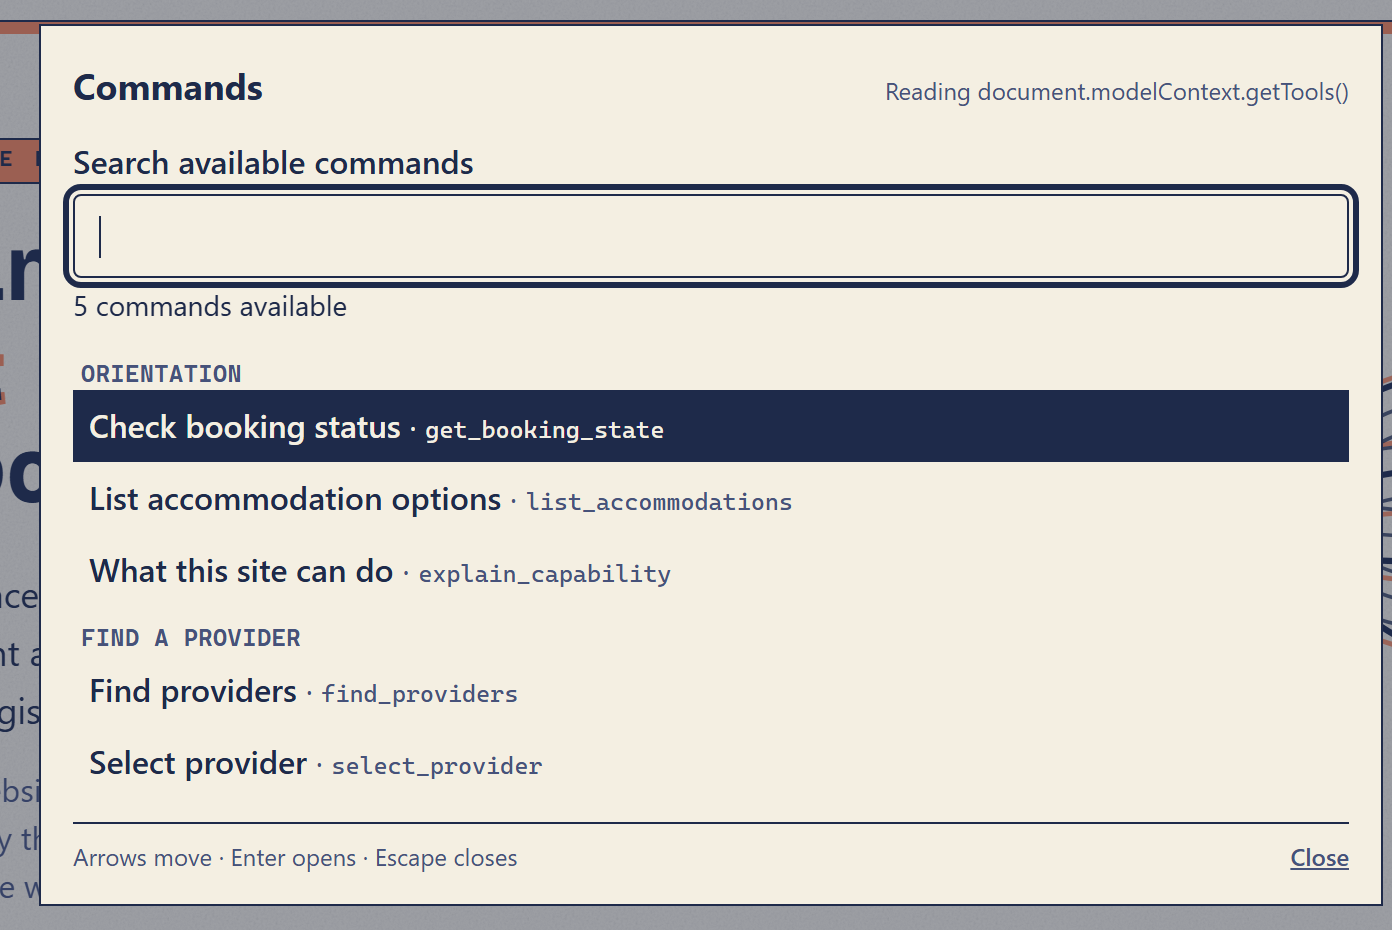
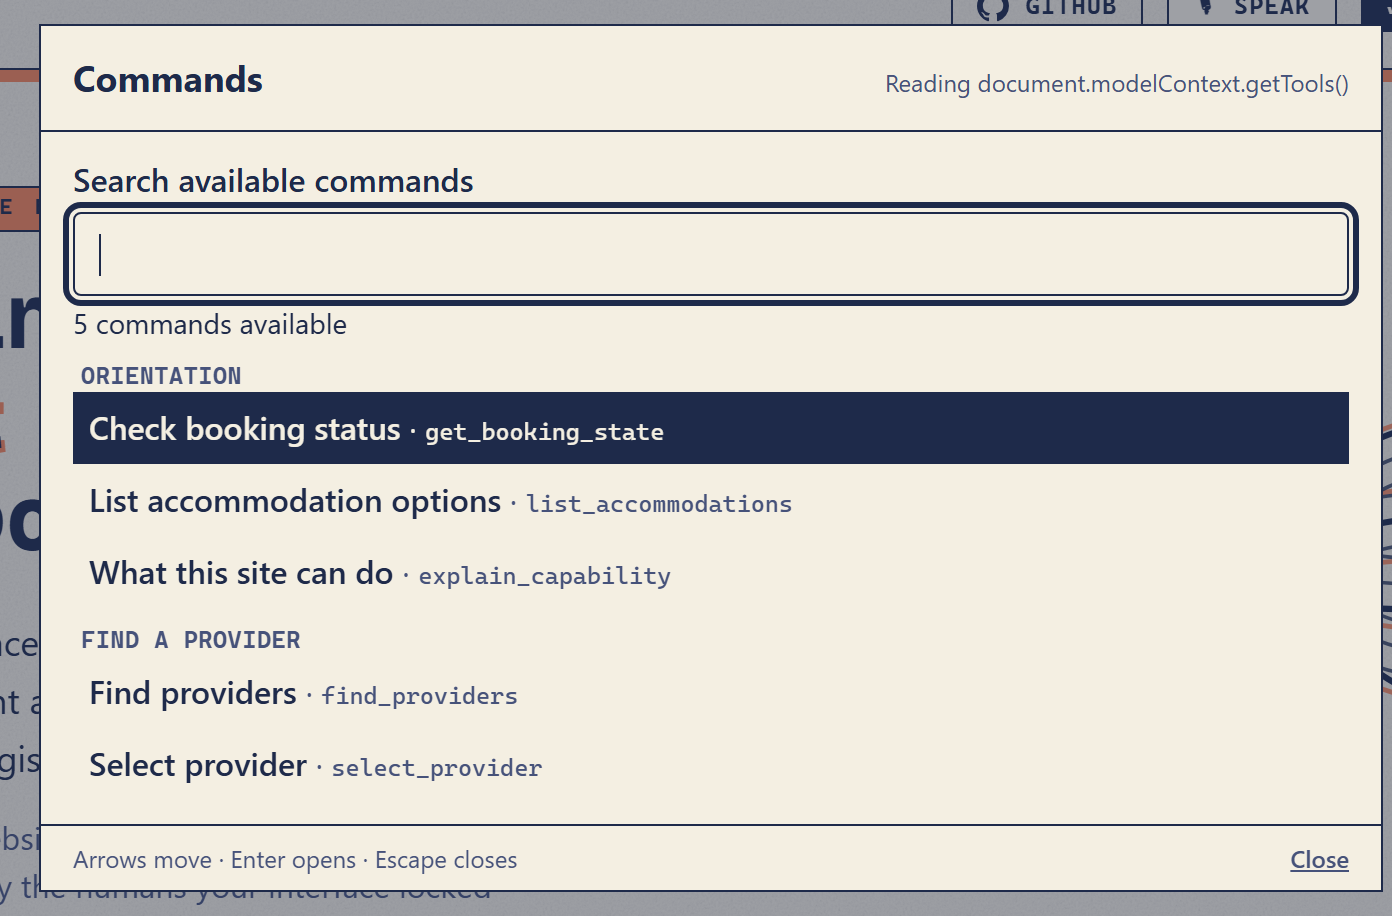
fix: the palette dialog was taller than the viewport and could not scroll
The screenshot showed it: the Run button was cut in half at the bottom of the
window and nothing would scroll to it.

The card sat inside a `fixed inset-0` overlay with no height cap and no
overflow, so a long form simply extended past the bottom of the screen. A fixed
overlay does not scroll with the page, so Run and the result area were
unreachable. find_providers is the worst case - specialty, ten accommodation
checkboxes, insurance, language and radius - which is exactly the tool the video
script opens first.

The control was never broken. It was off-screen, and the result rendered
further off-screen below it, which is why running it appeared to do nothing.

The card is now a flex column capped at calc(100dvh - 3rem):

  - header (title, source line) pinned
  - the middle scrolls: the listbox in list view, the fields in form view
  - actions and result pinned to the bottom, always reachable
  - the result block is itself capped and scrolls, so a long refusal cannot
    push the buttons away again

Verified at the reporter's viewport: the card ends 8px above the fold, Run is
fully visible, the field area scrolls, and after clicking Run the result
"3 physiotherapy providers." renders visibly directly beneath it.

336 unit tests, 22 real-Chrome checks.

diff --git a/src/components/CommandPalette.tsx b/src/components/CommandPalette.tsx
@@ -352,10 +352,17 @@ export function CommandPalette() {
       /* Escape is handled once, at the window — see the effect above. Handling
          it here too would stop the event before it got there whenever focus
          happened to be inside the dialog. */
-      className="fixed inset-0 z-50 flex items-start justify-center bg-ink/40 p-4 pt-16"
+      className="fixed inset-0 z-50 flex items-start justify-center overflow-hidden bg-ink/40 p-4 sm:pt-10"
     >
-      <div className="w-full max-w-2xl border-[1.5px] border-ink bg-stock p-4 ">
-        <div className="flex items-baseline justify-between gap-4">
+      {/*
+        The card is a column that never outgrows the viewport: header and
+        actions stay put, and only the middle scrolls. Without the height cap
+        a long form — find_providers has ten checkboxes — pushed Run and the
+        result below the fold of a `fixed` overlay, where nothing could scroll
+        to them. The control was not broken; it was off-screen.
+      */}
+      <div className="flex max-h-[calc(100dvh-3rem)] w-full max-w-2xl flex-col border-[1.5px] border-ink bg-stock">
+        <div className="flex shrink-0 items-baseline justify-between gap-4 border-b border-ink px-4 py-3">
           <h2 id="palette-title" className="text-lg font-bold text-ink">
             Commands
           </h2>
@@ -366,7 +373,8 @@ export function CommandPalette() {
 
         {!selected ? (
           <>
-            <label htmlFor="palette-search" className="mt-3 block font-semibold text-ink">
+            <div className="shrink-0 px-4 pt-3">
+            <label htmlFor="palette-search" className="block font-semibold text-ink">
               Search available commands
             </label>
             <input
@@ -389,8 +397,14 @@ export function CommandPalette() {
             <p id="palette-count" role="status" aria-live="polite" className="mt-1 text-sm text-ink">
               {matches.length} command{matches.length === 1 ? "" : "s"} available
             </p>
+            </div>
 
-            <ul id="palette-listbox" role="listbox" aria-label="Available commands" className="mt-2 max-h-80 overflow-y-auto">
+            <ul
+              id="palette-listbox"
+              role="listbox"
+              aria-label="Available commands"
+              className="min-h-0 flex-1 overflow-y-auto px-4 pb-3"
+            >
               {/* Searching: a flat list in relevance order, so what the DOM
                   shows is the order Enter will follow. Grouping while filtering
                   put the best match underneath a heading it did not belong to,
@@ -438,8 +452,9 @@ export function CommandPalette() {
               e.preventDefault();
               void run(selected);
             }}
-            className="mt-3 flex flex-col gap-3"
+            className="flex min-h-0 flex-1 flex-col"
           >
+            <div className="flex min-h-0 flex-1 flex-col gap-3 overflow-y-auto px-4 py-3">
             <div>
               <h3 className="font-display font-bold uppercase tracking-wide text-ink">
                 {selected.label}
@@ -469,6 +484,10 @@ export function CommandPalette() {
               />
             ))}
 
+            </div>
+
+            {/* Pinned: always reachable, however long the form is. */}
+            <div className="flex shrink-0 flex-col gap-3 border-t border-ink px-4 py-3">
             <div className="flex flex-wrap gap-3">
               <button
                 ref={runButtonRef}
@@ -491,7 +510,11 @@ export function CommandPalette() {
             </div>
 
             {result && (
-              <div role="status" aria-live="polite" className="rounded border-[1.5px] border-ink bg-stock-deep p-3 text-sm">
+              <div
+                role="status"
+                aria-live="polite"
+                className="max-h-40 overflow-y-auto border-[1.5px] border-ink bg-stock-deep p-3 text-sm"
+              >
                 {isRefusal(result) ? (
                   <>
                     <p className="font-semibold text-spot-deep">
@@ -511,10 +534,11 @@ export function CommandPalette() {
                 )}
               </div>
             )}
+            </div>
           </form>
         )}
 
-        <div className="mt-3 flex justify-between border-t border-ink pt-2 text-xs text-ink-soft">
+        <div className="flex shrink-0 justify-between border-t border-ink px-4 py-2 text-xs text-ink-soft">
           <span>Arrows move · Enter opens · Escape closes</span>
           <button
             type="button"
